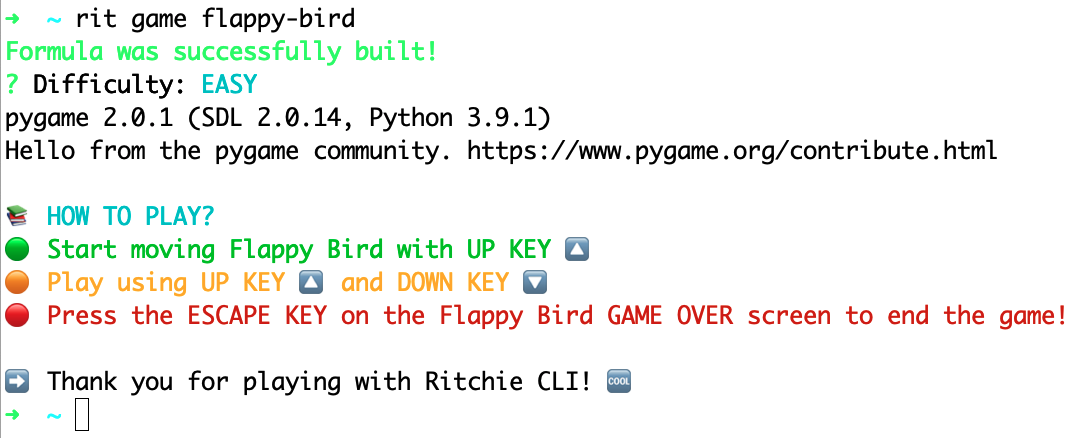
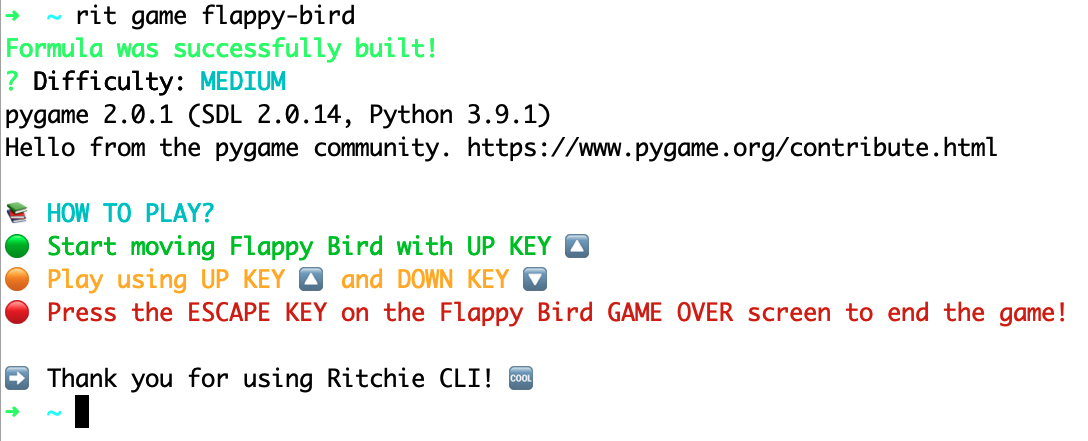
update rit game flappy-bird formula

Changed region(s): [[0.0, 0.0, 0.9062, 0.3858], [0.0, 0.4452, 0.9688, 0.742], [0.0, 0.8311, 0.5938, 0.9795]]

diff --git a/game/flappy-bird/src/formula/formula.py b/game/flappy-bird/src/formula/formula.py
@@ -140,7 +140,7 @@ def replay_or_quit():
     for event in pygame.event.get([pygame.KEYDOWN, pygame.KEYUP, pygame.QUIT]):
         if event.type == pygame.KEYUP: 
             if event.key == pygame.K_ESCAPE:
-                print("➡  Thank you for playing with Ritchie CLI! 🆒")
+                print("➡  Thank you for using Ritchie CLI! 🆒")
                 pygame.quit()
                 quit()
 
@@ -158,7 +158,7 @@ def msg_surface(text, difficulty):
     titleTextRect.center = surfaceWidth / 2, surfaceHeight / 2
     surface.blit(titletextSurf, titleTextRect)
 
-    typtextSurf, typTextRect = makeTextObjs('Press any key to continue', smallText)
+    typtextSurf, typTextRect = makeTextObjs('Press ANY KEY to continue or ESC to exit', smallText)
     typTextRect.center = surfaceWidth / 2, ((surfaceHeight / 2) + 100)
     surface.blit(typtextSurf, typTextRect)
 
